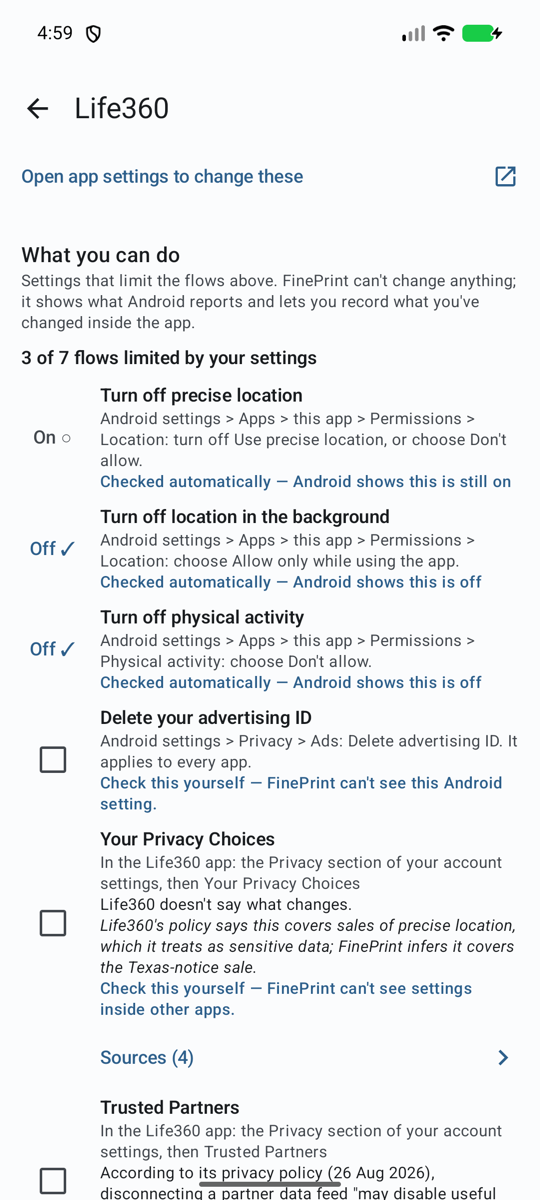
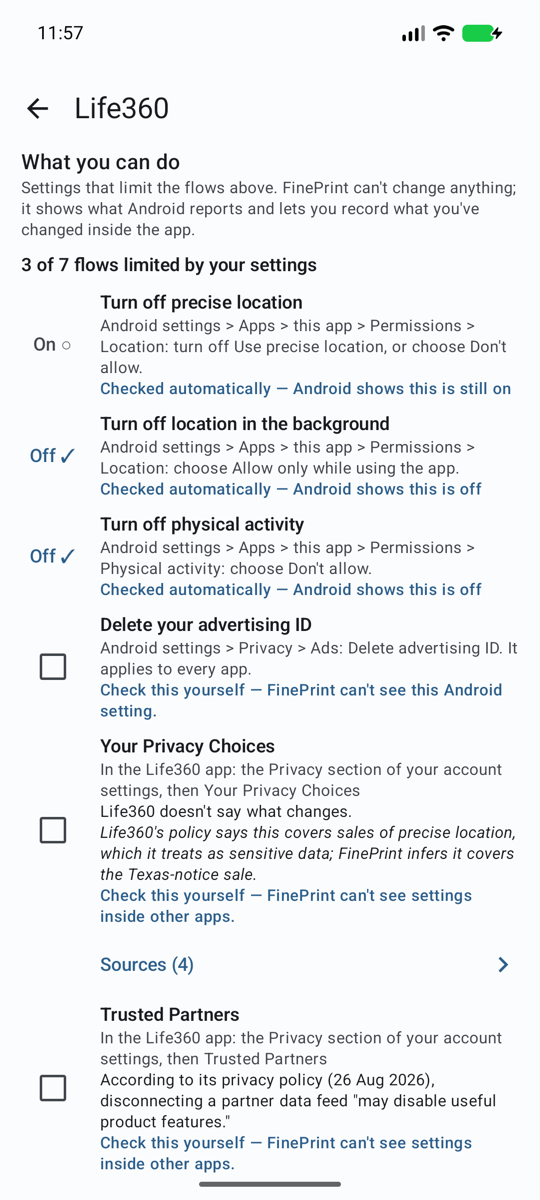
docs: retake README screenshots from one build
All four from origin/main's build and bundle (2026.10.04), captured in one sitting on the fineprint37 emulator, so
the numbers agree (Life360: 3 of 7 flows on the list, the page and the checklist). Adds Life360 "Where it goes";
the table is now 2x2.

Claude-Session: https://claude.ai/code/session_01RN8H9Kne5Pbo1sFHaCc2w7

diff --git a/README.md b/README.md
@@ -17,8 +17,9 @@ supported by exactly one hardcoded ad that knows nothing about you.
 
 ## Screenshots
 
-| ![The app list: each installed app with its tier and a one-line reason](docs/screenshots/list.png) | ![Life360: the summary, what it collects and where it goes](docs/screenshots/life360-detail.png) | ![Life360: what you can do, with the settings that limit each flow](docs/screenshots/life360-controls.png) |
-|:---:|:---:|:---:|
+| ![The app list: each installed app with its tier and a one-line reason](docs/screenshots/list.png) | ![Life360: its tier, the reason line and the summary](docs/screenshots/life360-detail.png) |
+|:---:|:---:|
+| ![Life360: where its data goes, and on what evidence](docs/screenshots/life360-where.png) | ![Life360: what you can do, with the settings that limit each flow](docs/screenshots/life360-controls.png) |
 
 Android emulator, October 2026. Records change as the knowledge base is reviewed; see bundle/ for the current data.
 
